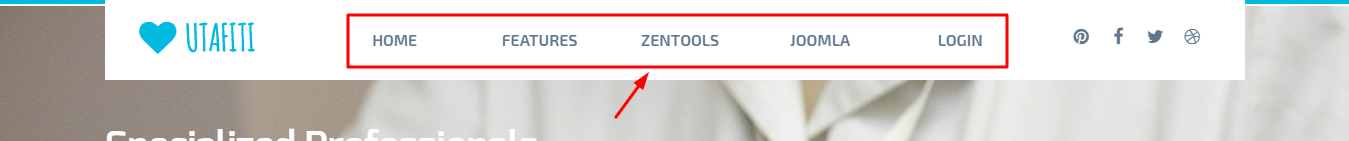
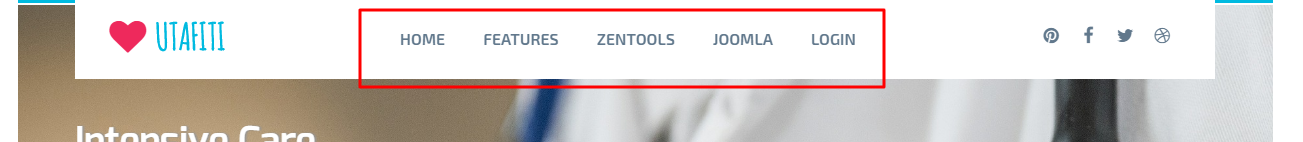
update - Utafiti

diff --git a/user/pages/10.recreating-the-demo/17.utafiti/docs.md b/user/pages/10.recreating-the-demo/17.utafiti/docs.md
@@ -33,6 +33,13 @@ Applying the Grid 4 example configuration sets the required theme panel options 
 **Step 4** - Click Save. After clicking save the required assets for the Utafiti theme will be generated (theme files, css files etc) and will now be available for use on your website.
 
 
+
+You can customize the template through the theme control panel, according to the image:
+
+
+![Apply Utafiti](screen_config_theme-2.gif)
+
+
 ## Install the Utafiti quickstart package
 
 If you are starting a new website from scratch we highly recommend installing the Utafiti quickstart package. This is by far the simplest way to recreate the demo site on your server.
@@ -300,7 +307,7 @@ The content settings are according to the image:
 
 To select more than one category in the 'CONTENT' tab, press CTRL (Windows) or Comand (MAC).
 
-For the module to stay with the theme of appearance, the module class suffix should be applied according to the image as well as the module style and the head tag:
+For the module to stay with the theme of appearance, the module class suffix should be applied according to the image as well as the module style tag:
 
 ![our team ](screen_team_3.png)
 
